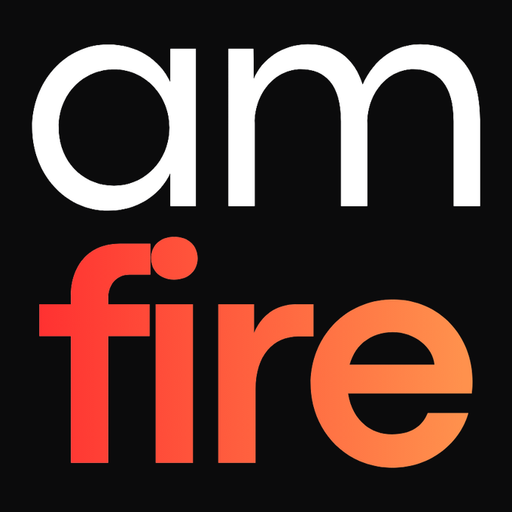
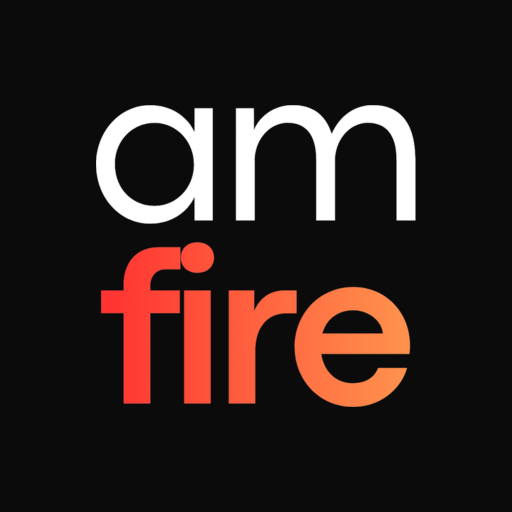
Fit the am/fire mark inside Google's circle and redirect /careers
Google crops favicons to a circle, which cut the edge-to-edge mark down to
"fi" in search results. The same mark is now scaled so both lines sit inside
the circle, shipped as favicon.ico (16/32/48), a 192px icon, the 180px phone
icon and the 512px logo in structured data. /careers, an old-site page still
in Google, now redirects to About.

diff --git a/next.config.ts b/next.config.ts
@@ -36,6 +36,7 @@ const nextConfig: NextConfig = {
       { source: "/contact", destination: "/start", permanent: true },
       { source: "/blog/:path*", destination: "/work", permanent: true },
       { source: "/industries/:path+", destination: "/services", permanent: true },
+      { source: "/careers", destination: "/about", permanent: true },
     ];
   },
   turbopack: {
